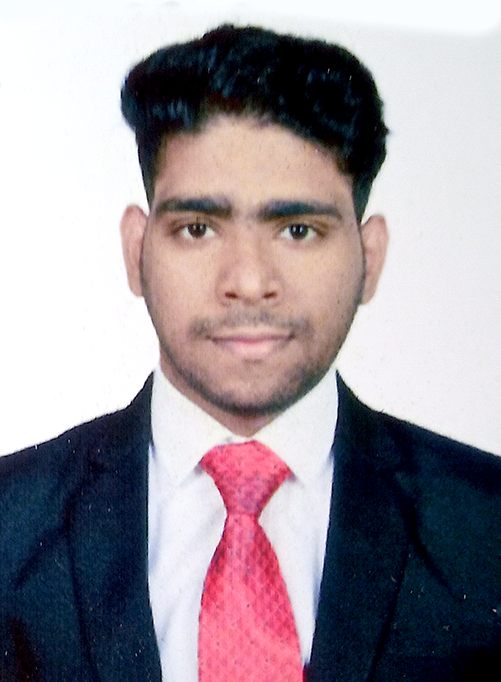
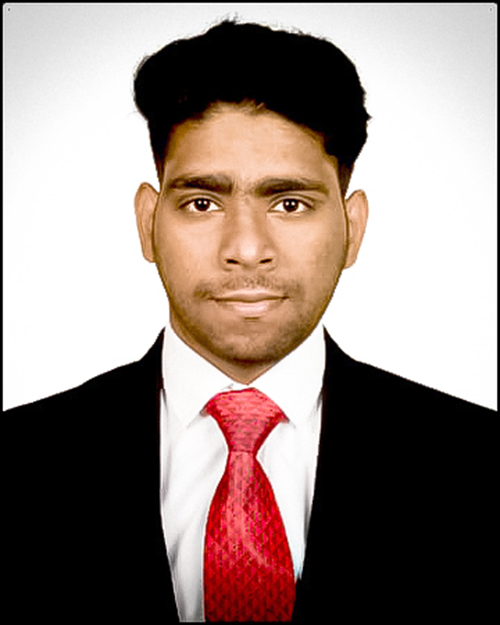
add on git hub final for azure

diff --git a/src/3.About/AboutUsData.js b/src/3.About/AboutUsData.js
@@ -24,6 +24,7 @@ import ST from "../images/Team_member/Sagar Tilekar.png";
 import GT from "../images/Team_member/Gayatri Tajane.png";
 import MD from "../images/Team_member/Mayuri Dudhe.png";
 import PG from "../images/Team_member/Prapti Gomekar.png";
+import RK from "../images/Team_member/Rasheed Kannan.png";
 
 
 // Current engagement data
@@ -56,7 +57,7 @@ export const employees = [
     photo: CG,
     designation: "Founder-Director",
   },
-  { id: "uv002", name: "Rasheed Kannan", photo: "", designation: "Director" },
+  { id: "uv002", name: "Rasheed Kannan", photo: RK, designation: "Director, Malaysia" },
   { id: "uv003", name: "Monika Korde", photo: MK, designation: "HR Partner" },
   { id: "uv004", name: "Aniket Patil", photo: AP, designation: "Software Engineer" },
   {

diff --git a/src/index.css b/src/index.css
@@ -1543,12 +1543,15 @@ footer .icons:hover {
   }
 
   .our-team .card {
-    height: 553px;
+    height: fit-content;
     text-align: center;
   }
 
   .our-team .img-holder {
-    height: 471px !important;
+    height: fit-content !important;
+  }
+  .our-team .img-holder img {
+    object-fit: contain !important;
   }
 
   .our-team .card-body {
